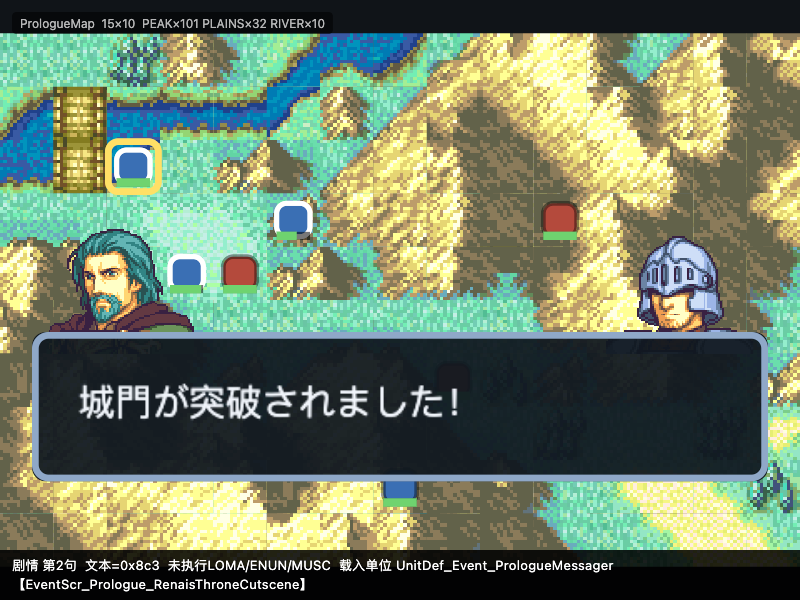
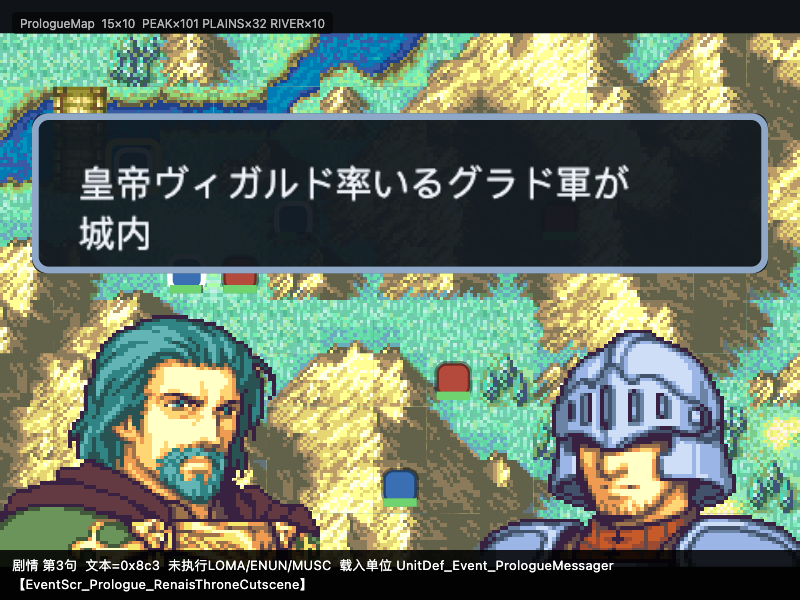
表现层：对话框移到上方 + 立绘独立成层（原作几何）
## 原作几何（全部有出处）

* `src/scene_080081A0.c:99-163`（`PutTalkBubble`）：
  `y = (yAnchor - height) + 1 = 3` 图块 → **像素 24..72**，高度 6 图块 = 48px；
  宽度 = `2 + Div(GetStrTalkLen(...)+7, 8)` 图块（**随这一页文字长度变化**）；
  x 跟着说话人走（`StartTalkOpen`：`GetTalkFaceHPos(talkFace)`，clamp 0..30）。
* `src/TalkLoadFace.c:37-58`：
  `FACE_DISP_KIND(FACE_96x80)`、`if (GetTalkFaceHPos(active) <= 14) |= FACE_DISP_FLIPPED`、
  `StartFaceAuto(fid, GetTalkFaceHPos(active)*8, 80, faceDisp)`。
* `src/data/worldmap_gmapunit/dat_worldmap_gmapunit_p680.c:11`：
  `gTalkFaceHPosLut[8] = { 3, 6, 9, 21, 24, 27, -8, 38 }`（图块，**x 是中心**）。
* `dat_worldmap_gmapunit_p676.c:59-70`（`gSprite_Face96x96`）：
  OAM 片 x 覆盖 −48…+48、y 覆盖 0…80 → 包围盒 **96×80**。

结论：**对话框在屏幕上方；立绘在 y=80..160，96×80，x 是中心，左半边镜像；
slot 6/7（x = −64 / 304）完全在屏幕外。**

## 我原来错在哪

* 对话框是"固定 92% 宽、y=0.56..0.84 的方框" —— **跑到下面去了**
* 立绘画成"**对话框框角里 20% 宽的小图**" —— 位置、尺寸、镜像**全不对**

**根因**：我把立绘当成了对话框的装饰。**它根本不属于对话框**，
是独立的一层。所以新建了 `lib/game/portrait_component.dart`。

## 改法

* 新增 `PortraitComponent`：槽位 → x 中心（LUT）、96×80、左侧镜像、
  `FilterQuality.none` 保像素风；**slot 6/7 不画**（屏幕外，是"先载入再移动"的暂存位）
* `SceneView._syncPortraits` 按槽位表增删立绘组件（复用，不重建）
* `DialogueBoxComponent` **不再画立绘**，只画框

截图确认：对话框在上方，国王在左（**朝右，已镜像**）、传令兵在右（朝左）——
两者都朝向中间。

## 顺带修的语义

* **`[CR]` 不该等按键**：原作 `[CR]`(2) 是滚动清屏
  （`src/TalkInterpret.c:86-97` → `TalkShiftClearAll_OnIdle.c:21-33`），
  只有 `[A]`(3) 才 `StartTalkWaitForInput`。
  我原来对**每一页**都等 → 每个非空 `[CR]` 页多要一次按键
  （全量 395 处；播放集 53 条）。另外 2127/3339 条消息**没有 `[A]`**，也不该等。
[…]

diff --git a/lib/game/scene_view.dart b/lib/game/scene_view.dart
@@ -24,6 +24,7 @@ import 'package:flame/components.dart';
 import 'package:flame/effects.dart';
 
 import 'battle_components.dart';
+import 'portrait_component.dart';
 
 /// 对话框的宿主
 class SceneView {
@@ -36,6 +37,9 @@ class SceneView {
   late final PositionComponent layer = PositionComponent();
 
   DialogueBoxComponent? _box;
+
+  /// 每个槽位上的立绘（**独立于对话框**）
+  final Map<int, PortraitComponent> _portraits = {};
 
   /// 当前显示的对白（null = 没在显示）
   ShowText? current;
@@ -162,24 +166,66 @@ class SceneView {
       layer.remove(_box!);
       _box = null;
     }
+    _screenSize = virtualSize;
     if (text == null || text.isEmpty) {
+      _syncPortraits(const {});
       onHudChanged();
       return;
     }
 
-    // 0.56 + 0.28 = 0.84，下面 16% 留给 HUD
-    final boxH = virtualSize.y * 0.28;
+    // ⚠ **对话框在屏幕上方**，不是下面。
+    //
+    // 原作 `src/scene_080081A0.c:99-163`（`PutTalkBubble`）：
+    //   `y = (yAnchor - height) + 1 = 3`（图块）→ **像素 24..72**，
+    //   高度 6 图块 = 48px；宽度 = `2 + Div(GetStrTalkLen(...)+7, 8)` 图块
+    //   （**随这一页文字长度变化**）；x 跟着说话人走（`StartTalkOpen` 里
+    //   `GetTalkFaceHPos(talkFace)`，clamp 到 0..30）。
+    //
+    // 我原来是"固定 92% 宽、y=0.56..0.84 的方框" —— 位置和形状都不对。
+    final boxH = virtualSize.y * (48 / 160);          // 6 图块 = 48px
+    final boxY = virtualSize.y * (24 / 160);          // y = 3 图块 = 24px
+    final boxW = virtualSize.x * 0.92;
     _box = DialogueBoxComponent(
       text: text,
       hostFaceId: hostFace,
       guestFaceId: guestFace,
-      hostPortrait: portraitFor(hostFace),
-      guestPortrait: portraitFor(guestFace),
-      boxWidth: virtualSize.x * 0.92,
+      boxWidth: boxW,
       boxHeight: boxH,
-    )..position = Vector2(virtualSize.x * 0.04, virtualSize.y * 0.56);
+    )..position = Vector2(virtualSize.x * 0.04, boxY);
     layer.add(_box!);
     onHudChanged();
+  }
+
+  Vector2 _screenSize = Vector2.zero();
+
+  /// 按槽位表同步立绘组件。
+  ///
+  /// 立绘**不属于对话框** —— 它是独立的一层，位置由
+  /// `gTalkFaceHPosLut` 决定（见 `portrait_component.dart`）。
+  void _syncPortraits(Map<int, int> slots) {
+    if (_screenSize == Vector2.zero()) return;
+    // 移除不再需要的
+    for (final slot in _portraits.keys.toList()) {
+      if (!slots.containsKey(slot)) {
+        layer.remove(_portraits.remove(slot)!);
+      }
+    }
+    // 加上新的 / 换图的
+    slots.forEach((slot, fid) {
+      if (!PortraitComponent.isOnScreen(slot)) return; // 6/7 在屏幕外
+      final img = portraitFor(fid);
+      if (img == null) return;
+      final existing = _portraits[slot];
+      if (existing != null && existing.image == img) return;
+      if (existing != null) layer.remove(existing);
+      final c = PortraitComponent(
+        slot: slot,
+        image: img,
+        screenSize: _screenSize,
+      );
+      layer.add(c);
+      _portraits[slot] = c;
+    });
   }
 
   /// 从一条场景事件更新显示
@@ -229,6 +275,8 @@ class SceneView {
 
     final segs = e.message.segments.take(upto).toList();
     final slots = <int, int>{};
+    // `0xFFFF`（当前单位的立绘）目前无法解析 —— 记下来而不是静默抹掉
+    final unknownFaceSlots = <int>{};
     var activeSlot = 0xFF;
     var pending80 = false;   // 上一个 token 是 $0080 前缀
     var expectFaceArg = false;
@@ -279,9 +327,16 @@ class SceneView {
         if (!expectFaceArg) continue;
         expectFaceArg = false;
         if (activeSlot == 0xFF) activeSlot = 1;   // 与 `TalkLoadFace` 一致
+        if (seg.isFaceFromActiveUnit) {
+          // `0xFFFF` = 取**当前单位**的立绘（`src/TalkLoadFace.c:46-49`），
+          // **不是清空**。当前实现没有"当前单位"这个概念，
+          // 所以明确记成未知而不是静默抹掉 —— 见 HUD 的"未执行"列表。
+          unknownFaceSlots.add(activeSlot);
+          continue;
+        }
         final fid = seg.faceId;
         if (fid == null) {
-          slots.remove(activeSlot);
+          unknownFaceSlots.add(activeSlot);
         } else {
           slots[activeSlot] = fid;
         }
@@ -291,11 +346,20 @@ class SceneView {
     show(
       text: page,
       virtualSize: virtualSize,
-      // 槽位 → 屏幕侧：`gTalkFaceHPosLut = {3,6,9,21,24,27,-8,38}`，
-      // 前半（0..2）在左，后半（3..7）在右
+      // 这两个只用于 HUD 显示与占位编号；真正的绘制走 _syncPortraits
       hostFace: _rightmost(slots),
       guestFace: _leftmost(slots),
     );
+    _syncPortraits(slots);
+    if (unknownFaceSlots.isNotEmpty) {
+      // 出声：这类槽位没有画出来，不是因为"没有脸"
+      assert(() {
+        // ignore: avoid_print
+        print('  [立绘] 这些槽位用了 \$FFFF（当前单位的立绘），本实现暂不支持：'
+            '$unknownFaceSlots');
+        return true;
+      }());
+    }
   }
 
   /// 槽位 → 屏幕 x（**像素，x 是立绘中心**）。

diff --git a/lib/game/portrait_component.dart b/lib/game/portrait_component.dart
@@ -1,0 +1,98 @@
+// 对话立绘（半身像）。
+//
+// ## 出处：几何全部来自源码
+//
+// `src/TalkLoadFace.c:37-58`：
+//
+// ```c
+// faceDisp |= FACE_DISP_KIND(FACE_96x80);
+// if (GetTalkFaceHPos(sTalkState->activeFaceSlot) <= 14)
+//     faceDisp |= FACE_DISP_FLIPPED;          // ← 左半边镜像
+// StartFaceAuto(faceId, GetTalkFaceHPos(active)*8, 80, faceDisp);
+// ```
+//
+// `src/data/worldmap_gmapunit/dat_worldmap_gmapunit_p680.c:11`：
+//
+// ```c
+// int gTalkFaceHPosLut[8] = { 3, 6, 9, 21, 24, 27, -8, 38 };   /* 单位：图块 */
+// ```
+//
+// `src/data/worldmap_gmapunit/dat_worldmap_gmapunit_p676.c:59-70`
+// （`gSprite_Face96x96`）：OAM 片 x 覆盖 −48…+48、y 覆盖 0…80
+// → **x 是中心，包围盒 96×80**。
+//
+// 所以（240×160 的 GBA 屏幕）：
+//
+//     slot 0..2（x = 24/48/72）  左半边，**镜像**
+//     slot 3..5（x = 168/192/216）右半边，不镜像
+//     slot 6..7（x = −64/304）   **完全在屏幕外** —— 是"先载入再移动进来"的暂存位
+//
+// ⚠ 我原来把立绘画成"对话框框角里 20% 宽的小图" —— 位置、尺寸、镜像**全不对**。
+// 那条路走不通的根因是：**立绘根本不属于对话框**，它是独立的一层。
+import 'dart:ui' show Image, Paint, FilterQuality, Rect, Canvas;
+
+import 'package:flame/components.dart';
+
+/// 一个槽位上的立绘
+class PortraitComponent extends PositionComponent {
+  PortraitComponent({
+    required this.slot,
+    required this.image,
+    required this.screenSize,
+  }) : super(
+          size: Vector2(screenSize.x * (96 / 240), screenSize.x * (80 / 240)),
+        );
+
+  final int slot;
+  final Image image;
+
+  /// 屏幕虚拟分辨率（240×160 一类）
+  final Vector2 screenSize;
+
+  /// 槽位 → 屏幕 x（**中心**），单位：图块（8px）
+  ///
+  /// `gTalkFaceHPosLut[8] = { 3, 6, 9, 21, 24, 27, -8, 38 }`
+  static const slotTileX = <int, double>{
+    0: 3, 1: 6, 2: 9, 3: 21, 4: 24, 5: 27, 6: -8, 7: 38,
+  };
+
+  /// 这个槽位在屏幕上可见吗（6/7 在屏幕外）
+  static bool isOnScreen(int slot) => slot >= 0 && slot <= 5;
+
+  /// 是否镜像（`GetTalkFaceHPos <= 14` 图块 → 左半边）
+  static bool isFlipped(int slot) => (slotTileX[slot] ?? 99) <= 14;
+
+  /// 像素 x（**中心**）
+  double get centerX => (slotTileX[slot] ?? 0) * 8 * (screenSize.x / 240);
+
+  @override
+  void onMount() {
+    super.onMount();
+    // 立绘贴底：y = 80 图块 = 屏幕下半部起点，包围盒 96×80
+    position = Vector2(centerX - size.x / 2, screenSize.y * (80 / 160));
+  }
+
+  @override
+  void render(Canvas canvas) {
+    final dst = Rect.fromLTWH(0, 0, size.x, size.y);
+    if (isFlipped(slot)) {
+      canvas.save();
+      canvas.translate(size.x, 0);
+      canvas.scale(-1, 1);
+      canvas.drawImageRect(
+        image,
+        Rect.fromLTWH(0, 0, image.width.toDouble(), image.height.toDouble()),
+        dst,
+        Paint()..filterQuality = FilterQuality.none,
+      );
+      canvas.restore();
+    } else {
+      canvas.drawImageRect(
+        image,
+        Rect.fromLTWH(0, 0, image.width.toDouble(), image.height.toDouble()),
+        dst,
+        Paint()..filterQuality = FilterQuality.none,
+      );
+    }
+  }
+}

diff --git a/lib/game/battle_components.dart b/lib/game/battle_components.dart
@@ -386,16 +386,14 @@ class DialogueBoxComponent extends PositionComponent {
     );
     add(clip);
 
-    // 有立绘图就不放编号占位
-    if (guestPortrait == null) _addFaceLabel(guestFaceId, 0);
-    if (hostPortrait == null) _addFaceLabel(hostFaceId, 1);
+
   }
 
   @override
   void render(Canvas canvas) {
     // 立绘占位：左右各一个色块 + 编号
-    _face(canvas, guestFaceId, guestPortrait, 0);
-    _face(canvas, hostFaceId, hostPortrait, 1);
+    // NOTE: portraits are NOT drawn here - they are a separate layer
+    // (portrait_component.dart), positioned by gTalkFaceHPosLut.
 
     final box = Rect.fromLTWH(0, 0, size.x, size.y);
     canvas.drawRRect(
@@ -411,56 +409,5 @@ class DialogueBoxComponent extends PositionComponent {
     );
   }
 
-  void _face(Canvas canvas, int? id, Image? img, int side) {
-    if (id == null) return;
-    // 立绘比占位编号大得多，而且**上缘要探出框外**（原作就是这样，
-    // 人物半身像从对话框后面升起来）。
-    final w = size.x * 0.20;
-    final r = Rect.fromLTWH(
-      // 往外挪一点，别贴着框边被切
-      side == 0 ? size.x * 0.02 : size.x - w - size.x * 0.02,
-      -w * 0.75,
-      w,
-      w,
-    );
-    // 有立绘就画立绘 —— 用 `drawImageRect` 缩放，`FilterQuality.none`
-    // 保住像素风（开了插值会糊）。
-    if (img != null) {
-      canvas.drawImageRect(
-        img,
-        Rect.fromLTWH(0, 0, img.width.toDouble(), img.height.toDouble()),
-        Rect.fromLTWH(r.left, r.top, r.width, r.width * 0.9),
-        Paint()..filterQuality = FilterQuality.none,
-      );
-      return;
-    }
-    canvas.drawRRect(
-      RRect.fromRectAndRadius(r, const Radius.circular(4)),
-      Paint()..color = const Color(0xCC2A3A50),
-    );
-    // 编号由 `onLoad` 里建好的 `TextComponent` 画 ——
-    // **不在 render 里建组件**（render 应当是纯的）。
-  }
 
-  /// 立绘占位的编号。用 `TextComponent` + `Anchor.center`，
-  /// 不再手算 `r.center - Offset(tp.width/2, tp.height/2)`。
-  void _addFaceLabel(int? id, int side) {
-    if (id == null) return;
-    final w = size.x * 0.12;
-    final rect = Rect.fromLTWH(
-      side == 0 ? size.x * 0.02 : size.x - w - size.x * 0.02,
-      -w * 0.8,
-      w,
-      w,
-    );
-    add(TextComponent(
-      text: id.toRadixString(16).toUpperCase(),
-      textRenderer: TextPaint(
-        style: TextStyle(color: const Color(0xFFFFFFFF), fontSize: w * 0.3),
-      ),
-      anchor: Anchor.center,
-      position: Vector2(rect.center.dx, rect.center.dy),
-      priority: 1,
-    ));
-  }
 }

diff --git a/lib/core/event/game_text.dart b/lib/core/event/game_text.dart
@@ -75,7 +75,17 @@ class TextControl extends TextSegment {
   ///
   /// **教训：结果对不代表模型对。要去找偏离的样本。**
   ///
-  /// 返回 `null` 表示"不是一次脸编号"（`0xFFFF` 特殊值，或负值）。
+  /// ⚠ `0xFFFF` 是**特殊值**：表示"取当前单位的立绘"
+  /// （`src/TalkLoadFace.c:46-49` `GetUnitPortraitId(gActiveUnit)`），
+  /// **不是"清空"**。我原来返回 null 并被下游当成"抹掉这张脸"。
+  ///
+  /// 全量 32 处（当前不在播放集 → latent，但语义要写对）。
+  bool get isFaceFromActiveUnit {
+    if (!isFaceSpec) return false;
+    return int.tryParse(name.substring(1), radix: 16) == 0xFFFF;
+  }
+
+  /// 返回 `null` 表示"不是一次脸编号"（负值）。
   bool get isFaceSpec => name.startsWith(r'$');
 
   /// 脸编号 = `raw - 0x100`。见 [isFaceSpec] 的说明。
@@ -259,6 +269,15 @@ class GameMessage {
     final tail = buf.toString().trim();
     if (tail.isNotEmpty) out.add((tail, segments.length));
     return out;
+  }
+
+  /// 在 [upto]（页界 token 下标）处结束这一页的，是不是 `[A]`（等按键）？
+  ///
+  /// `[A]` 等按键、`[CR]` 只是滚动清屏（`src/TalkInterpret.c:86-108`）。
+  bool isWaitForKeyAt(int upto) {
+    if (upto <= 0 || upto > segments.length) return false;
+    final seg = segments[upto - 1];
+    return seg is TextControl && seg.isWaitForKey;
   }
 
   /// 返回每一页的纯文字（已去掉控制码、`[LF]` 已换成换行）。

diff --git a/lib/core/event/scene.dart b/lib/core/event/scene.dart
@@ -321,8 +321,21 @@ class Scene {
         pageIndex: i,
         pageCount: pages.length,
       ));
-      // 每一页都要玩家按键才继续（最后一页也一样 —— 原作的节奏）
-      await onEvent(WaitForInput(currentScript, 0));
+      // ⚠ **只有 `[A]` 才等按键，`[CR]` 不等。**
+      //
+      // 原作：
+      //   * `[A]`(3)  → `StartTalkWaitForInput`（`src/TalkInterpret.c:99-108`）**等**
+      //   * `[CR]`(2) → `Proc_StartBlocking(gProcScr_TalkShiftClearAll)`
+      //     （`:86-97`），滚动清屏完就继续 —— **不等按键**
+      //     （`src/TalkShiftClearAll_OnIdle.c:21-33`）
+      //
+      // 我原来对**每一页**都 `await WaitForInput` —— 每个非空 `[CR]` 页
+      // 都会多要一次按键（全量 395 处；播放集 53 条消息含 `[CR]`）。
+      //
+      // 另外：2127/3339 条消息**没有 `[A]`**，它们也不该在最后等按键。
+      if (m.isWaitForKeyAt(pages[i].$2)) {
+        await onEvent(WaitForInput(currentScript, 0));
+      }
     }
   }
 
